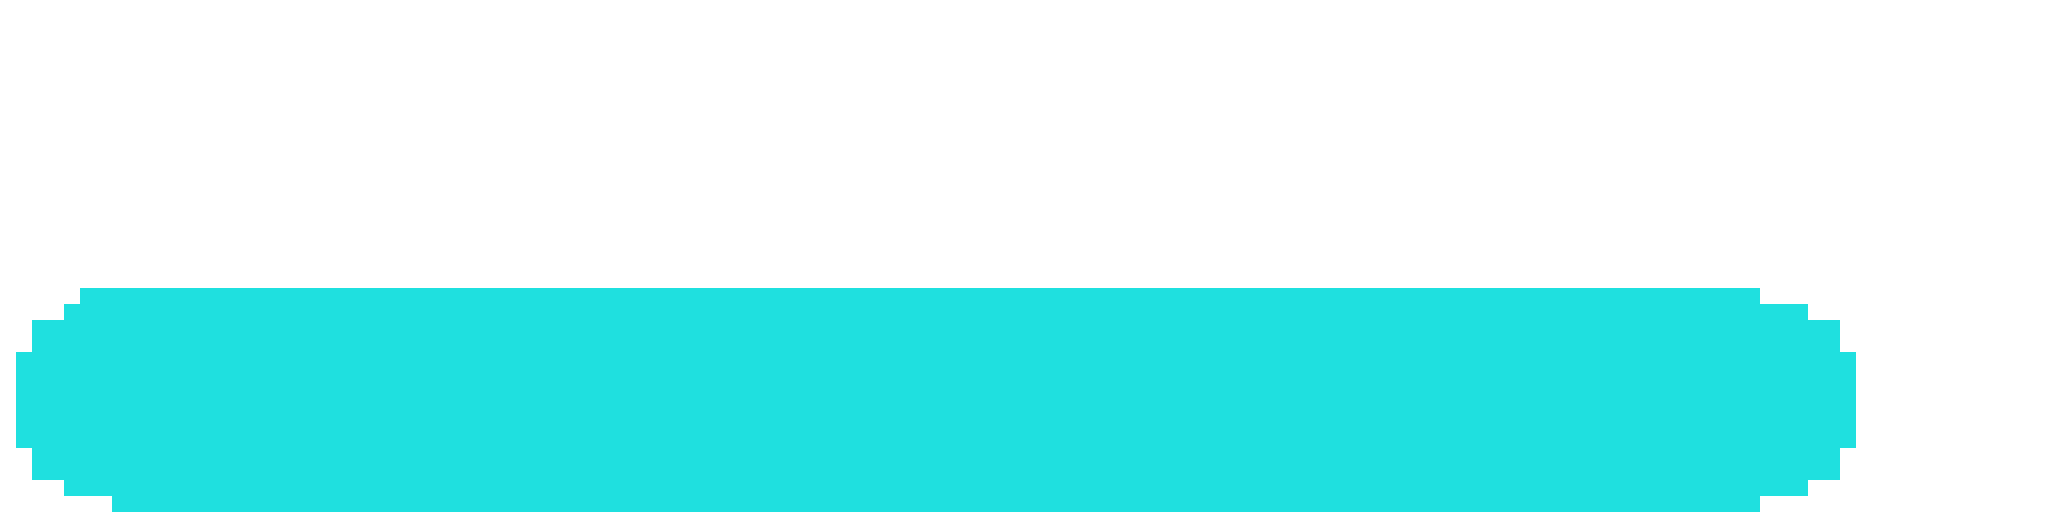
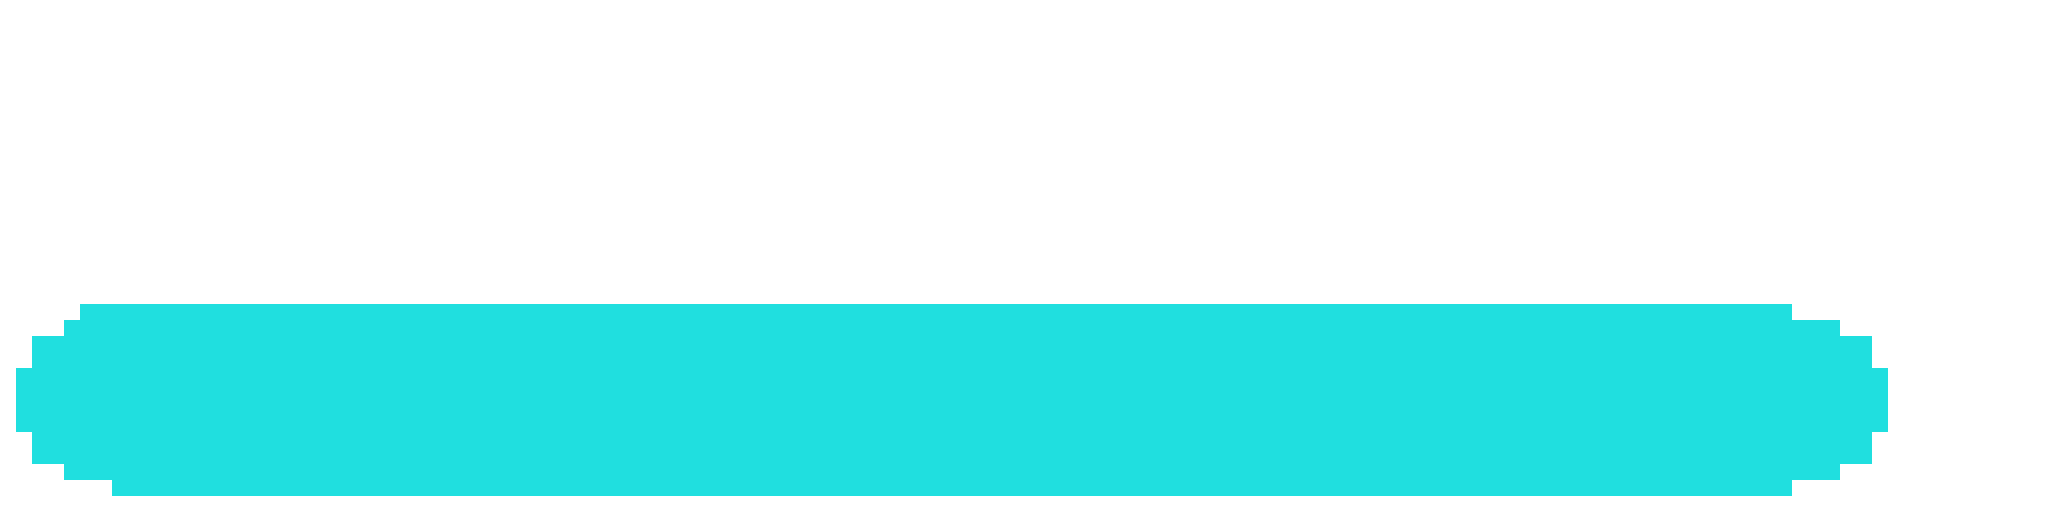
complete energy bar

diff --git a/app/src/main/java/najoah/gui/GameOverScreen.java b/app/src/main/java/najoah/gui/GameOverScreen.java
@@ -6,6 +6,10 @@ import java.awt.Graphics;
 import javax.swing.*;
 import java.awt.*;
 import java.awt.event.*;
+import java.awt.image.BufferedImage;
+import java.io.*;
+import javax.imageio.ImageIO;
+
 
 /** Will create a game over panel, if true is inputted into the constructor a player win label will display,
 * if false is inputted a player loss label will display
@@ -18,17 +22,32 @@ public class GameOverScreen extends JPanel
     private JLabel playerLossLabel;
     private JButton playAgainButton;
 
+    private BufferedImage forestImage;
+    private JLabel forestLabel;
+
     public GameOverScreen(Boolean status)
     {
         this.status = status;
 
-        this.playerWinLabel = new JLabel("Congratulations! You have won!");
+        this.playerWinLabel = new JLabel("Congratulations! You have won the match!");
         this.playerWinLabel.setFont(new Font("Verdana", Font.PLAIN, 30));
-        this.playerLossLabel = new JLabel("Sorry! You have lost.");
+        this.playerLossLabel = new JLabel("Sorry! You have lost the match.");
         this.playerLossLabel.setFont(new Font("Verdana", Font.PLAIN, 30));
 
         this.playAgainButton = new JButton("Play Again");
         this.playAgainButton.setPreferredSize(new Dimension(150,75));
+
+        forestLabel = new JLabel();
+        InputStream input = getClass().getClassLoader().getResourceAsStream("Drawing 3.png");
+        try
+        {
+            forestImage = ImageIO.read(input);
+            forestLabel.setIcon(new ImageIcon(new ImageIcon(forestImage).getImage().getScaledInstance(768, 256, Image.SCALE_DEFAULT)));
+            forestLabel.setBounds(30,8,769,257);
+        }
+        catch(Exception e){}
+
+        this.add(forestLabel);
 
         if (status)
         {
@@ -39,6 +58,6 @@ public class GameOverScreen extends JPanel
             this.add(playerLossLabel);
         }
 
-        this.add(playAgainButton);
+        //this.add(playAgainButton);
     }
 }

diff --git a/app/src/main/java/najoah/gui/GameGUI.java b/app/src/main/java/najoah/gui/GameGUI.java
@@ -114,6 +114,10 @@ public class GameGUI implements ActionListener
         block.setPreferredSize(new Dimension(150,25));
         block.addActionListener(this);
 
+        JButton catchButton = new JButton("Catch");
+        catchButton.setPreferredSize(new Dimension(150,25));
+        catchButton.addActionListener(this);
+
         //making seperate pokemon panels
         this.playerHP = new HealthBarPanel("Player", 50);
         
@@ -126,8 +130,8 @@ public class GameGUI implements ActionListener
         //this can be relatively hardcoded, or we can set this too be scaled as aratio off of main panel size/frame
         playerHP.setBounds(70,40,150,176);
         computerHP.setBounds(600,40,150,176);
-        playerEnergy.setBounds(70,215,150,100);
-        computerEnergy.setBounds(600,215,150,100);
+        playerEnergy.setBounds(70,210,150,100);
+        computerEnergy.setBounds(600,210,150,100);
         layering.add(forestLabel,0);
         layering.add(playerHP,0);
         layering.add(computerHP,0);
@@ -140,6 +144,7 @@ public class GameGUI implements ActionListener
         bottomPanel.add(basic);
         bottomPanel.add(special);
         bottomPanel.add(block);
+        bottomPanel.add(catchButton);
         bottomPanel.add(moveLabel);
        
 
@@ -169,7 +174,7 @@ public class GameGUI implements ActionListener
         Pokemon[] pokes = model.getPokemon();
         this.playerHP.setHP(pokes[0].getHealthCurrent(),pokes[0].getHealthMax());
         this.computerHP.setHP(pokes[1].getHealthCurrent(),pokes[1].getHealthMax());
-        this.playerEnergy.setEnergy(45,50);
+        this.playerEnergy.setEnergy(25,50);
     
 
         this.moveLabel.setText("The user performed a "+pokes[0].getMove().getName()+". The computer perfomed a "+pokes[1].getMove().getName()+".");

diff --git a/app/src/main/java/najoah/gui/creaturegraphics/EnergyBar.java b/app/src/main/java/najoah/gui/creaturegraphics/EnergyBar.java
@@ -55,14 +55,9 @@ public class EnergyBar extends JPanel
         {
             energyBarBlue = ImageIO.read(input);
             energyBarBlueLabel.setIcon(new ImageIcon(new ImageIcon(energyBarBlue).getImage().getScaledInstance(128,48, Image.SCALE_DEFAULT)));
-            energyBarBlueLabel.setBounds(xOfTotal+1,(yOfTotal-2),128,48);
+            energyBarBlueLabel.setBounds(xOfTotal,(yOfTotal),128,48);
         }
         catch(Exception e){}
-
-
-        //creating health to store on the bar and edit
-        //textBar = new JLabel("50/50");
-       // textBar.setBounds(xOfTotal+30,yOfTotal-30,50,50);
 
         /* 
         now they shall both be added to a layered pane,
@@ -74,7 +69,6 @@ public class EnergyBar extends JPanel
         pane.add(energyBarTotalLabel,1);
         pane.add(energyBarBlueLabel,0);
 
-        //adding health and name labels
         pane.add(this.textEnergy,0);
 
         this.add(pane);
@@ -86,9 +80,8 @@ public class EnergyBar extends JPanel
         float max = maxEnergy;
         float current = currentEnergy;
 
-        energyBarBlueLabel.setBounds(xOfTotal+1,yOfTotal-2,Math.round(121.0f*(current/max))+7,48);
+        energyBarBlueLabel.setBounds(xOfTotal,yOfTotal,Math.round(121.0f*(current/max)+7),48);
         textEnergy.setText(currentEnergy+"/"+maxEnergy);
-        //yet to be implemented, adjust length and bounds of greenlabel
     }
 
 }
